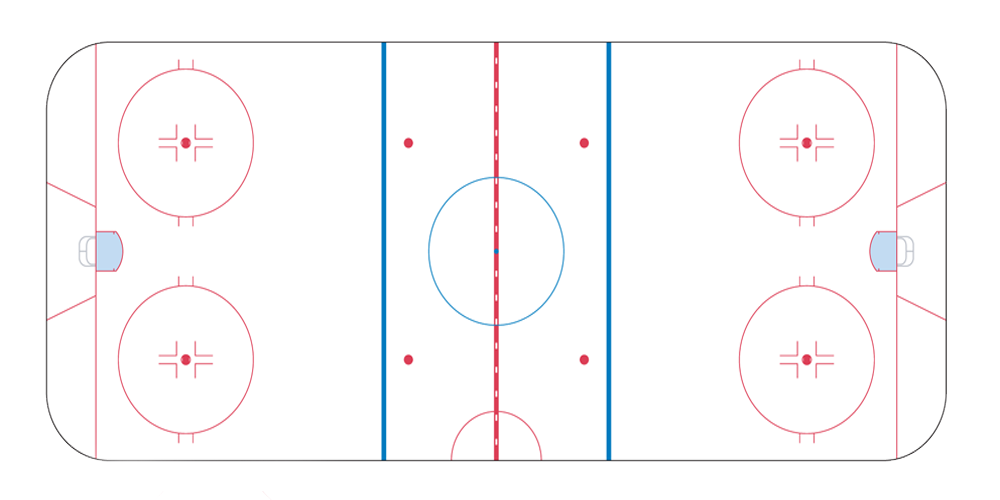
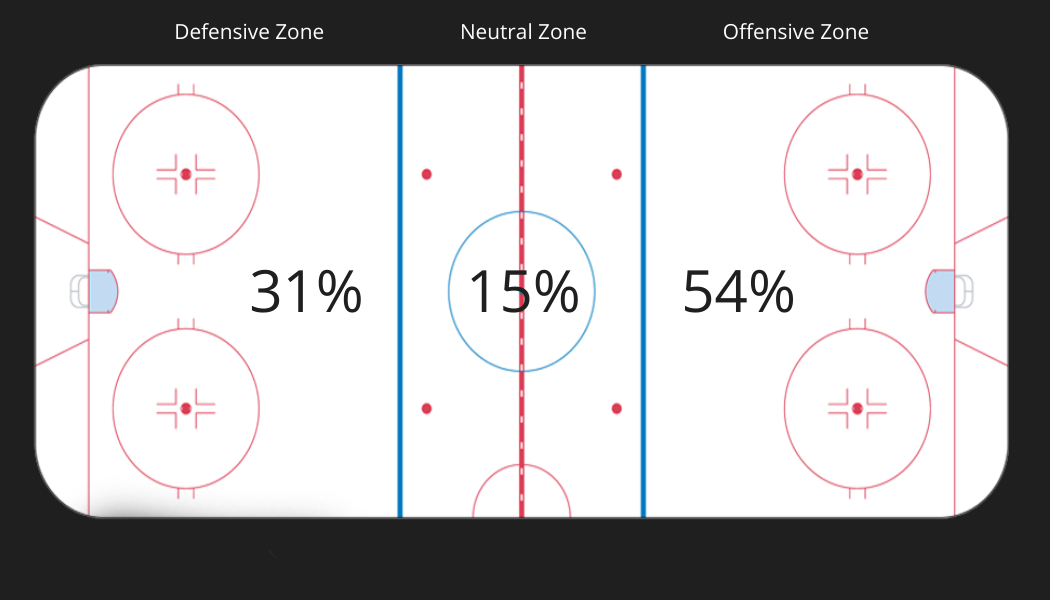
Rink fix

diff --git a/teamPage.html b/teamPage.html
@@ -173,20 +173,14 @@
 
 							</div>
 
-							<div id=fill style="background: linear-gradient(#27282D, #434D56); width: 100%; height: 80vh; position: absolute; bottom:-55vh; left:0;">
+							<div id=rinkImg style="background: #1f1f1f; width: 100%; height: 82vh; position: absolute; bottom:-55vh; left:0;">
 
 							<p1 style="position: absolute; left: 19vw; top: 18vh; font-size: 2vh; font-weight: bolder; position:relative; color: white;"> Puck Possession </p1>
 
-							<p2 style="position: absolute; left: 23%; top: 23vh; font-size: 1.5vh; position:relative; color: #e9e9e9; z-index: 110"> Defensive Zone </p2>
-							<p2 style="position: absolute; left: 37%; top: 23vh; font-size: 1.5vh; position:relative; color: #e9e9e9; z-index: 110"> Neutral Zone </p2>
-							<p2 style="position: absolute; left: 50%; top: 23vh; font-size: 1.5vh; position:relative; color: #e9e9e9; z-index: 110"> Offensive Zone </p2>
-
-							<p2 style="position: absolute; left: 9%; top: 45vh; font-size: 4vh; position:relative; color: black; z-index: 110"> 31% </p2>
-							<p2 style="position: absolute; left: 23%; top: 45vh; font-size: 4vh; position:relative; color: black; z-index: 110"> 15% </p2>
-							<p2 style="position: absolute; left: 37%; top: 45vh; font-size: 4vh; position:relative; color: black; z-index: 110"> 54% </p2>
 
 
-							<img src="assets/rink.png" style="position: absolute; top: 25vh; left: 17vw; z-index: 100; height: 48vh; width: 70vw;"> </img>
+
+							<img src="assets/rink.png" style="position: absolute; top: 25vh; left:0; right:0;margin-left: auto; margin-right: auto;  z-index: 100; height: 55vh; width: 62vw;"> </img>
 
         		</div>
 

diff --git a/css/style.css b/css/style.css
@@ -166,3 +166,7 @@ tr:nth-child(odd) {
   font-weight: 700;
   text-decoration: none;
 }
+
+#rinkImg{
+    pointer-events: none;
+}
